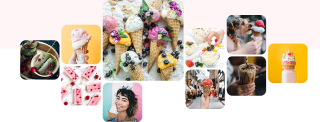
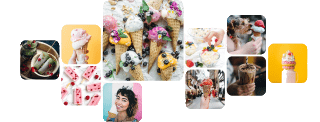
replaced collage photo with no background photo

diff --git a/src/partials/gallery.html b/src/partials/gallery.html
@@ -13,7 +13,7 @@
                     ./images/photo-collage-1280px@1x.png 1x,
                     ./images/photo-collage-1280px@2x.png 2x,
                     ./images/photo-collage-1280px@3x.png 3x">
-            <img src="./images/photo-collage@1x.png" alt="ice cream collage">
+            <img src="./images/photo-collage-320px@1x.png" alt="ice cream collage">
         </picture>
     </div>
 </section>
